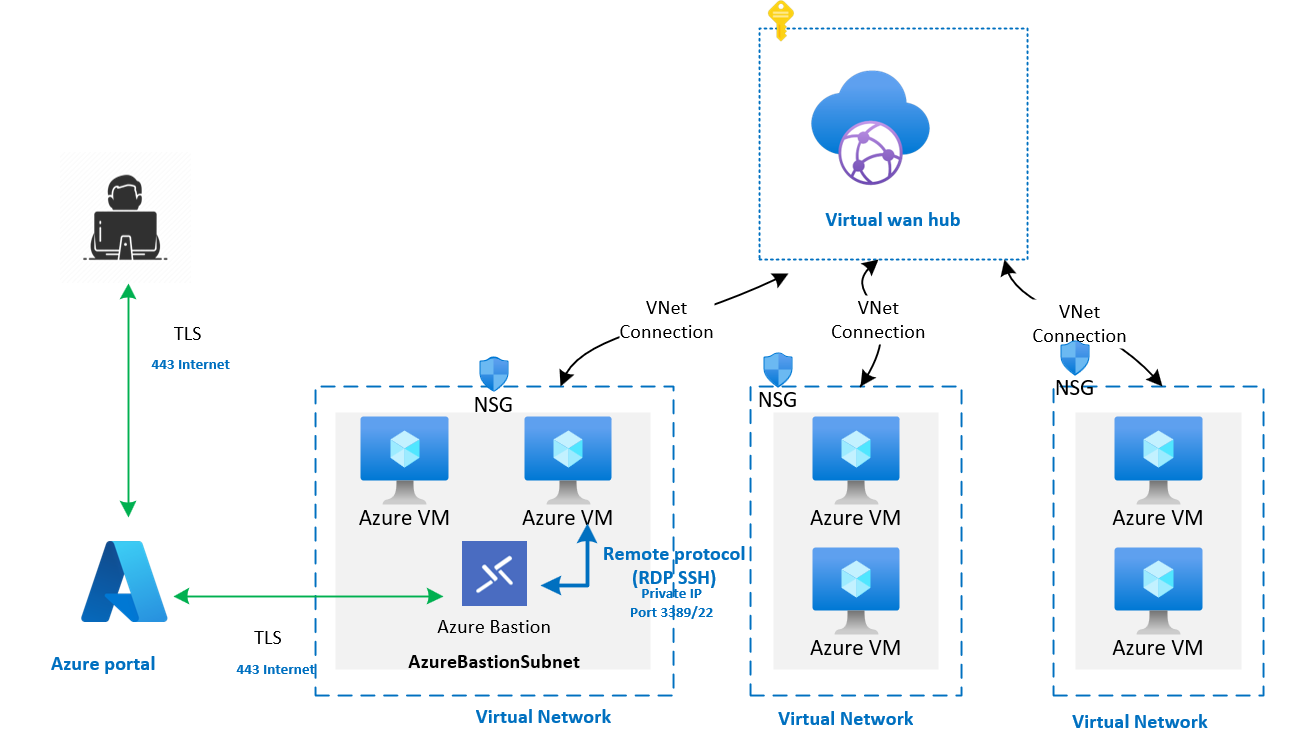
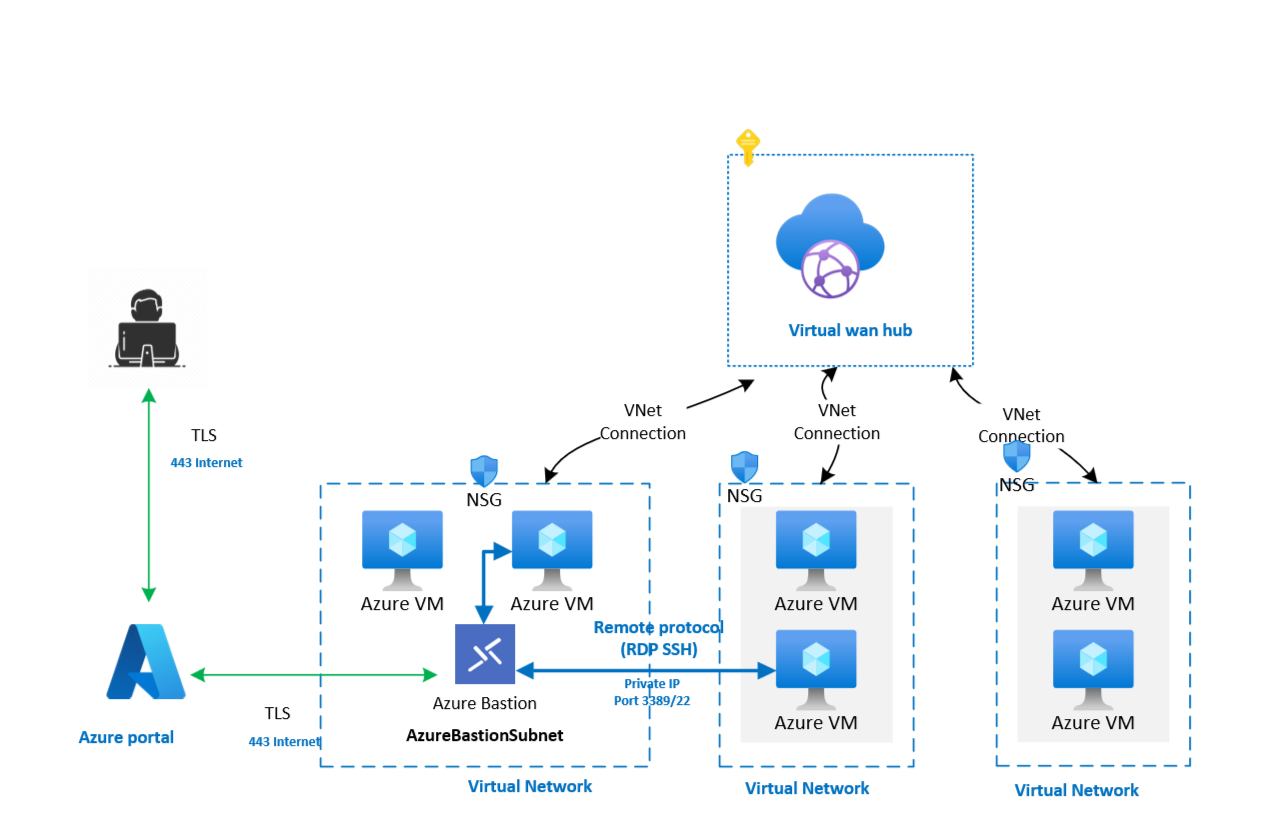
updated to reflect basion across vwan routing

diff --git a/docs/ready/azure-best-practices/plan-for-virtual-machine-remote-access.md b/docs/ready/azure-best-practices/plan-for-virtual-machine-remote-access.md
@@ -35,7 +35,7 @@ The choice of which remote access solution is most appropriate depends on factor
 - Review the [Azure Bastion FAQ](/answers/products/) for answers to common questions you might have about the service.
 - Azure Bastion can be used in Azure Virtual WAN topology. Known limitations include:
   - Azure Bastion can't be deployed in a Virtual WAN virtual hub.
-  - Azure Bastion currently isn't supported with the routing capabilities native to Virtual WAN. Instead, it must be deployed within each spoke virtual network to provide connectivity to VMs within the same virtual network.
+  - Azure Bastion can be deployed in any spoke with VWAN connectivity for accessing hosts in any VNets which are peered through Virtual WAN routing  
   
 ## Design recommendations
 
